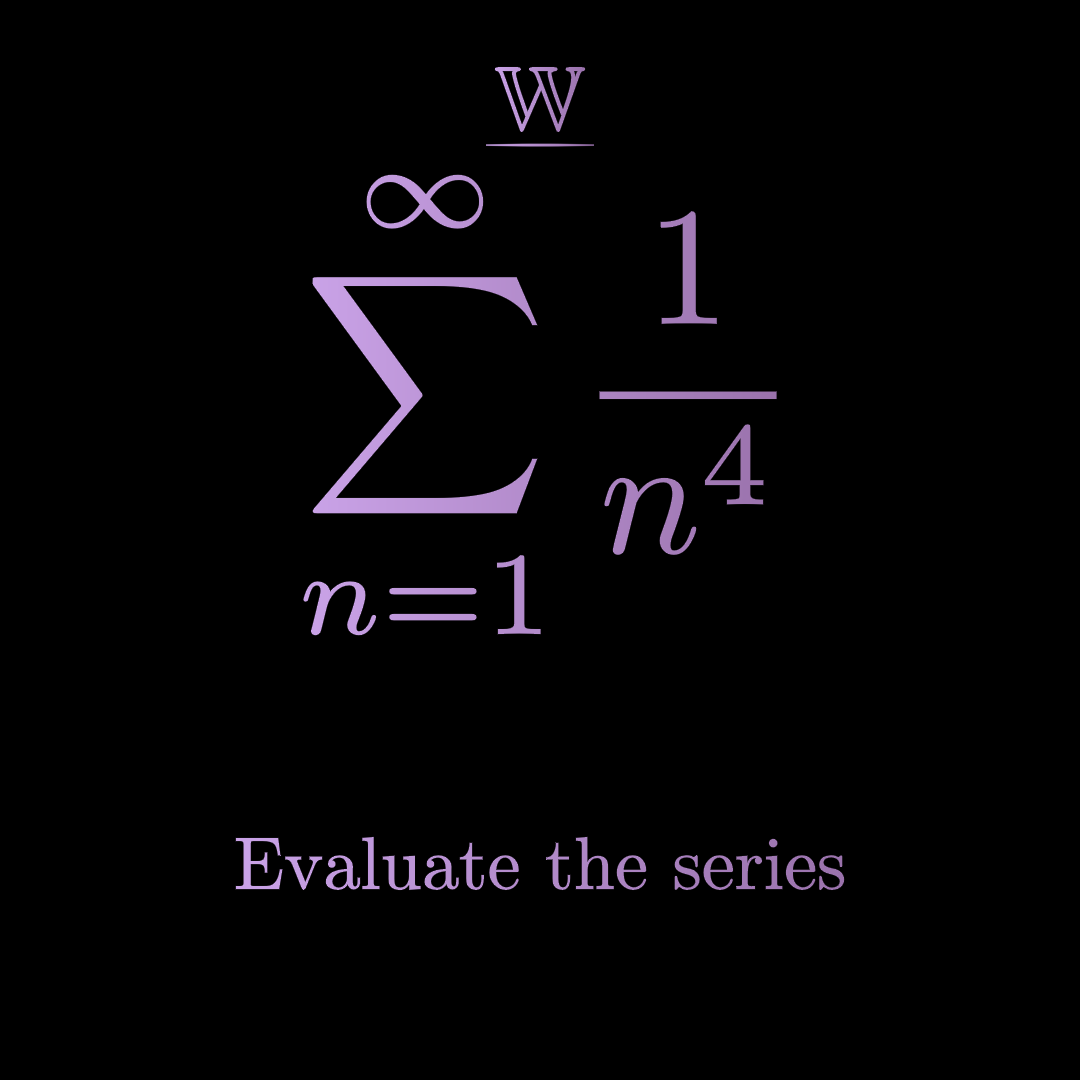
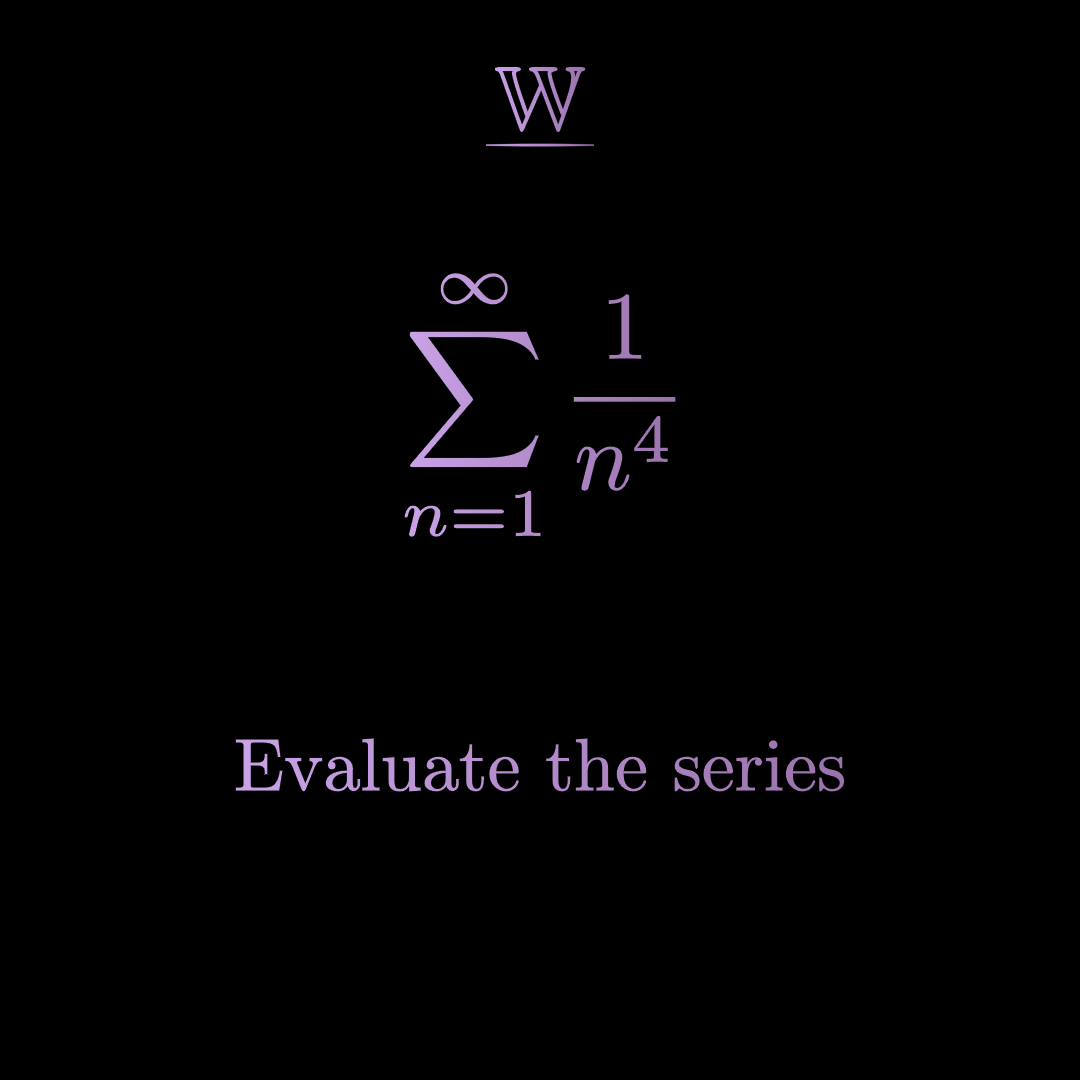
f

diff --git a/char.py b/char.py
@@ -668,7 +668,7 @@ class W(InteractiveScene):
         problem = Tex(R"\sum_{n=1}^{\infty}\frac{1}{n^4}")
         problem.set_color(color)
         problem.shift(UP)
-        problem.set_width(FRAME_WIDTH - 4.5)
+        problem.set_width(FRAME_WIDTH - 6)
         self.add(problem)
 
         solve = TexText("Evaluate the series")
